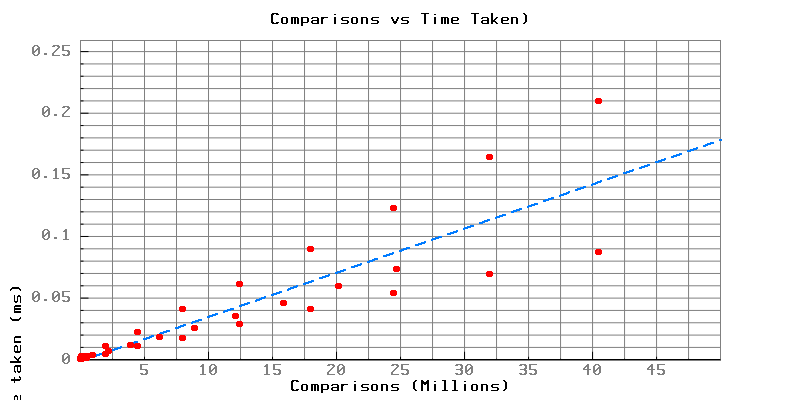
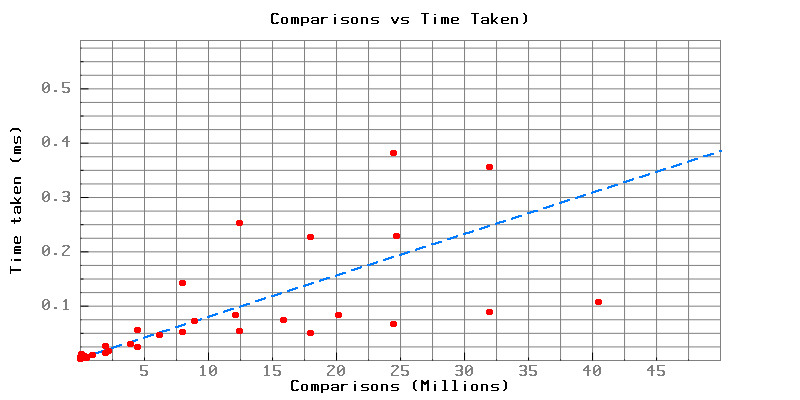
Implemented dynamic memory allocation in executeSort

diff --git a/main.c b/main.c
@@ -16,9 +16,6 @@
 #define NUM_SORTING_ALGORITHMS 6
 #define NUM_RESULTS_PER_ALGORITHM 10
 
-
-int numbers[10000];
-
 /**
  * Process the file and save the results in a file
  * @param filePath
@@ -29,7 +26,7 @@ void processFile(const char *filePath, const char *resultFilePath, int *fileExec
 void plotData(SortingResult sortingResults[], int size, int numSortingAlgorithms, int resultPerAlgorithm, int *fileExecutionCount);
 
 
-void executeSortingAlgorithms(int *numbers, int *arrIndex, SortingResult *sortingResultsFile, const char *filePath);
+void executeSortingAlgorithms( int *arrIndex, SortingResult *sortingResultsFile, const char *filePath);
 
 int main() {
     int fileExecutionCount = 0;
@@ -46,7 +43,7 @@ void processFile(const char *filePath, const char *resultFilePath, int *fileExec
     SortingResult sortingResultsFile[NUM_SORTING_ALGORITHMS * NUM_RESULTS_PER_ALGORITHM];
 
     // Pass the address of arrIndex and sortingResultsFile to the function
-    executeSortingAlgorithms(numbers, &arrIndex, sortingResultsFile, filePath);
+    executeSortingAlgorithms( &arrIndex, sortingResultsFile, filePath);
     printResults(&arrIndex, sortingResultsFile);
     writeResultsToFile(sortingResultsFile, NUM_SORTING_ALGORITHMS * 10, resultFilePath);
     if (!writeResultsToFile(sortingResultsFile, arrSize, resultFilePath)) {
@@ -116,11 +113,11 @@ void plotData(SortingResult sortingResults[], int size, int numSortingAlgorithms
                              "Time taken (ms)", "Swaps (Millions)");
 }
 
-void executeSortingAlgorithms(int *numbers, int *arrIndex, SortingResult *sortingResultsFile, const char *filePath) {
-    executeSort(numbers, bubbleSort, "Bubble Sort", arrIndex, sortingResultsFile, filePath);
-    executeSort(numbers, selectionSort, "Selection Sort", arrIndex, sortingResultsFile, filePath);
-    executeSort(numbers, insertionSort, "Insertion Sort", arrIndex, sortingResultsFile, filePath);
-    executeSort(numbers, countingSort, "Count Sort", arrIndex, sortingResultsFile, filePath);
-    executeSort(numbers, mergeSort, "Merge Sort", arrIndex, sortingResultsFile, filePath);
-    executeSort(numbers, quickSort, "Quick Sort", arrIndex, sortingResultsFile, filePath);
+void executeSortingAlgorithms( int *arrIndex, SortingResult *sortingResultsFile, const char *filePath) {
+    executeSort( bubbleSort, "Bubble Sort", arrIndex, sortingResultsFile, filePath);
+    executeSort( selectionSort, "Selection Sort", arrIndex, sortingResultsFile, filePath);
+    executeSort( insertionSort, "Insertion Sort", arrIndex, sortingResultsFile, filePath);
+    executeSort( countingSort, "Count Sort", arrIndex, sortingResultsFile, filePath);
+    executeSort( mergeSort, "Merge Sort", arrIndex, sortingResultsFile, filePath);
+    executeSort( quickSort, "Quick Sort", arrIndex, sortingResultsFile, filePath);
 }

diff --git a/src/SortingOperations.c b/src/SortingOperations.c
@@ -10,11 +10,12 @@ int isSorted(int arr[], int n) {
     return 1;
 }
 
-void executeSort(int numbers[],void (*sort)(int[], int, int *, int *, int *), char *algorithmName, int *arrIndex,
+void executeSort(void (*sort)(int[], int, int *, int *, int *), char *algorithmName, int *arrIndex,
                  SortingResult sortingResultsFile[], const char *filePath) {
     for (int i = 0; i < 10; i++) { // Loop over the array 10 times
         int size = (i + 1) * 1000; // Calculate the size of the array for each iteration
-        int num_read = readNumbersFromFile(filePath, size, numbers); // Read numbers from the file
+        int *numArr = malloc(size * sizeof(int)); // Allocate memory for the array
+        int num_read = readNumbersFromFile(filePath, size, numArr); // Read numbers from the file
 
         if (num_read == -1) { // If there was an error reading the file
             printf("Error reading file\n"); // Print an error message
@@ -30,15 +31,16 @@ void executeSort(int numbers[],void (*sort)(int[], int, int *, int *, int *), ch
 
         clock_t start_time = clock();
 
-        sort(numbers, size, &swaps, &comparisons,&functionCalls); // Sort the numbers
+        sort(numArr, size, &swaps, &comparisons,&functionCalls); // Sort the numbers
 
         clock_t end_time = clock(); // End time
         double time_taken = ((double) (end_time - start_time)) / CLOCKS_PER_SEC; // Time taken in seconds
 
         saveResultInStruct(size, swaps, comparisons,functionCalls, time_taken, algorithmName, arrIndex, sortingResultsFile);
 
-        if (!isSorted(numbers, size)) { // If the numbers are not sorted
+        if (!isSorted(numArr, size)) { // If the numbers are not sorted
             printf("Array not sorted\n"); // Print a message indicating that the array is not sorted
         }
+        free(numArr); // Free the memory allocated for the array
     }
 }

diff --git a/include/SortingOperations.h b/include/SortingOperations.h
@@ -18,7 +18,7 @@
  * @param sortingResultsFile An array of SortingResult structures to store the results.
  * @param filePath The path of the file where the results will be written.
  */
-void executeSort(int numbers[],void (*sort)(int[], int, int *, int *, int *), char *algorithmName, int *arrIndex,
+void executeSort(void (*sort)(int[], int, int *, int *, int *), char *algorithmName, int *arrIndex,
                  SortingResult sortingResultsFile[], const char *filePath);
 
 /**
